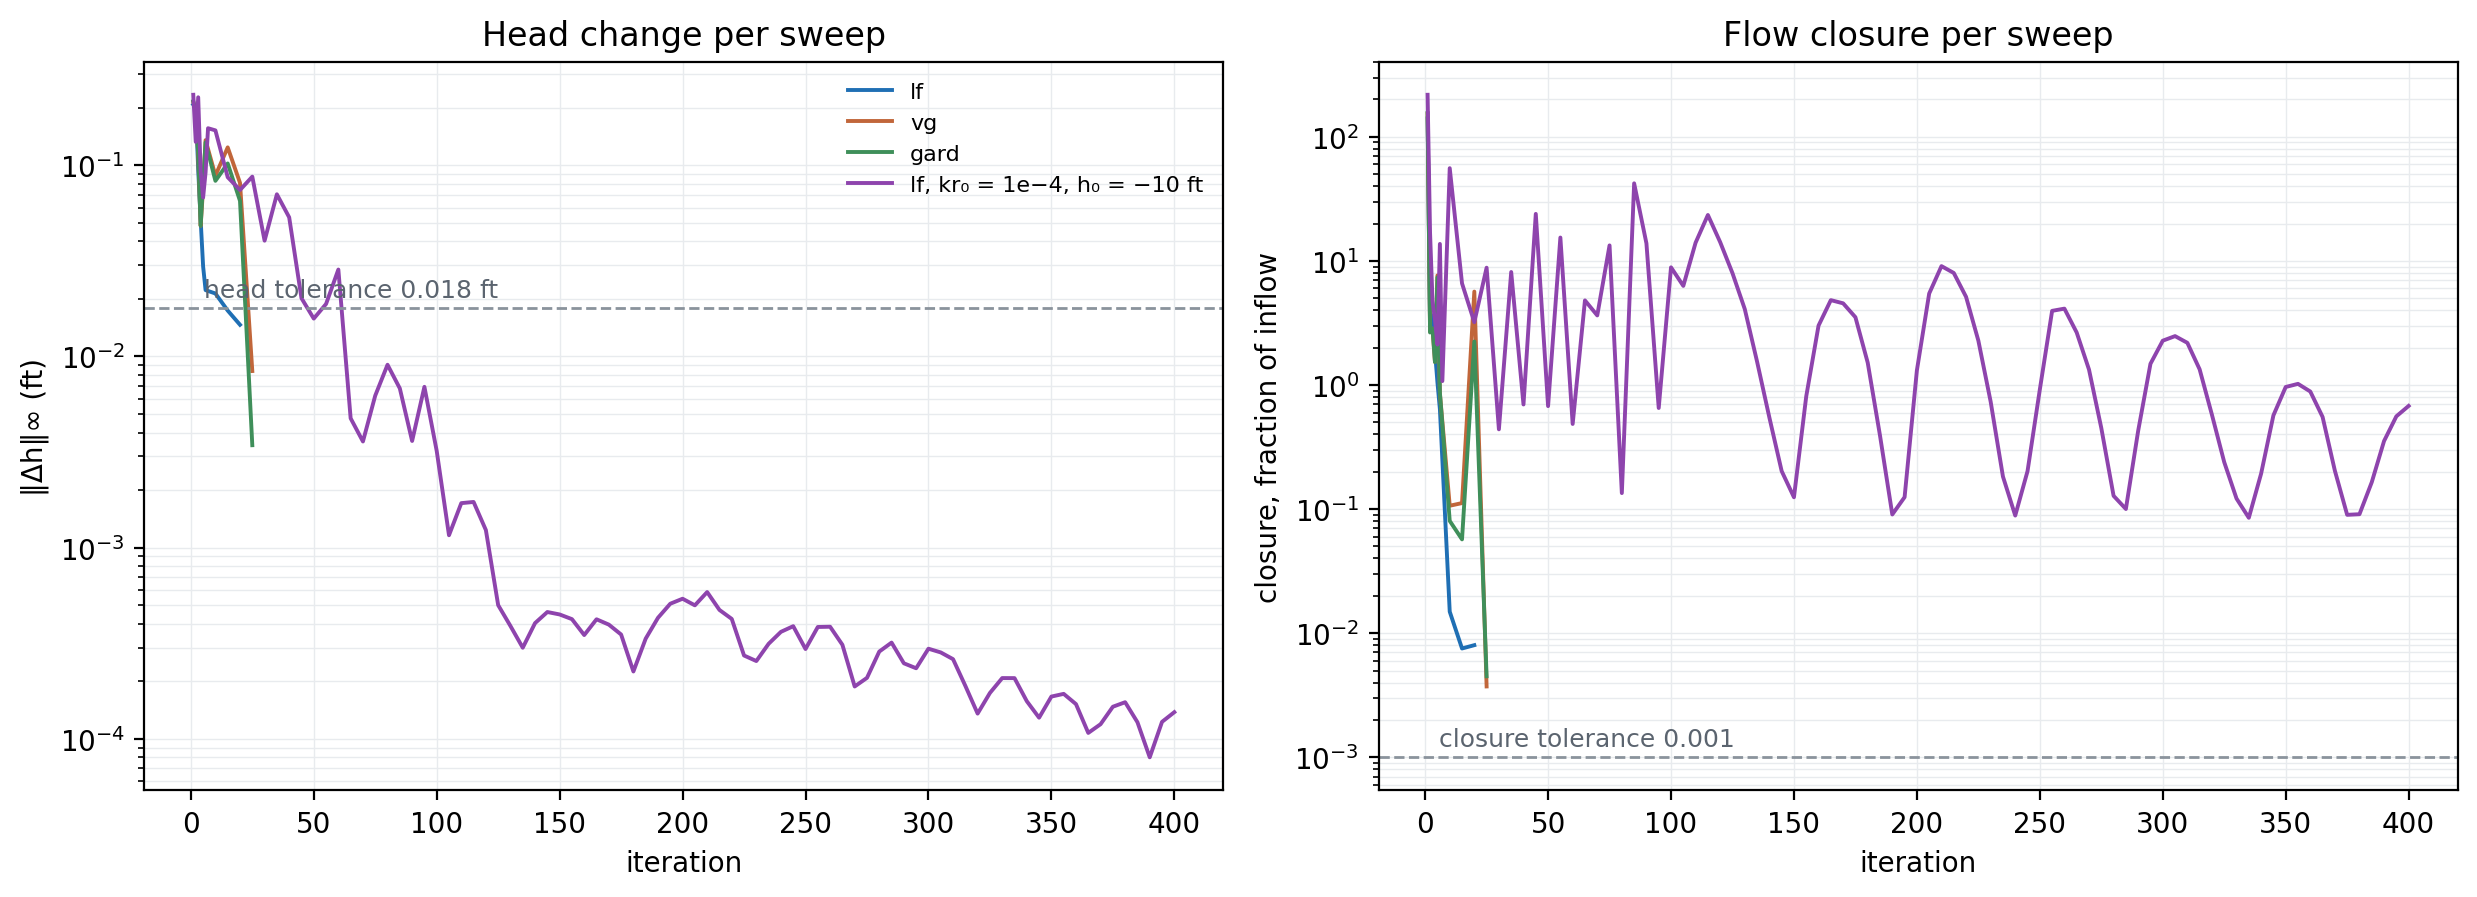
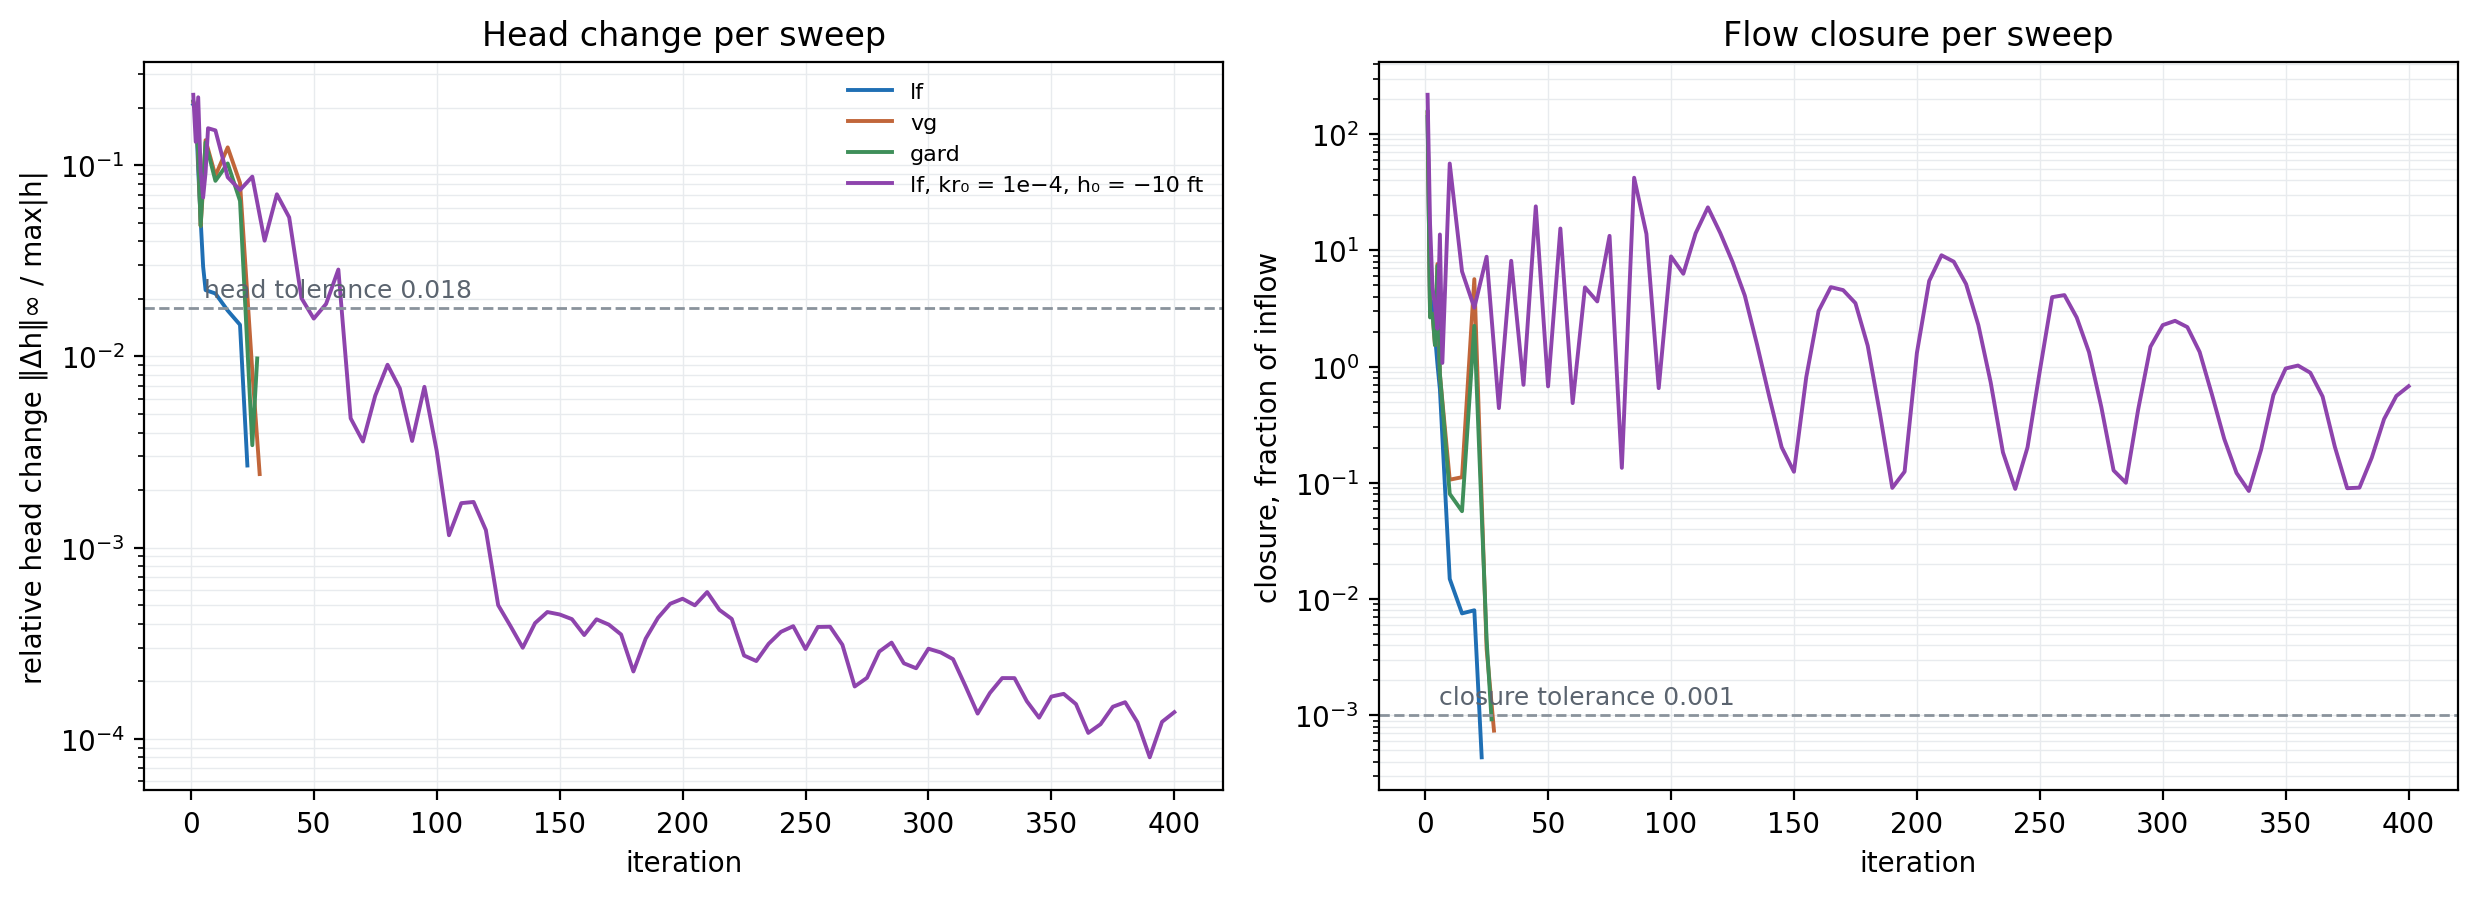
docs(tutorials): SEEP-2's convergence figure carries the sweep each run stopped on
The solver prints a sweep only on the first three, every fifth after that, and
whenever the exit-face set changes, so a run converging on sweep 23 never prints
its last one and the scraped history stopped in mid-descent, above the thresholds
the run had actually crossed. The history now appends the terminal
`Converged in N iterations` line, which carries the same residual and closure.

The head test is on the RELATIVE change — max nodal change over the largest head
— so the panel's axis and its threshold annotation drop the feet they never had.

The relaxation factor now comes off the ladder at the sweep a run finished on
rather than off the log, which read 1.00 for a run that spent three sweeps at
0.5. The exit-face trajectory, the band the hard run's closure orbits in, and how
far each section integral misses the reported discharge are measured rather than
eyeballed off a figure.

Claude-Session: https://claude.ai/code/session_01XjjT2aBxw8gY7EFdpoUcpj

diff --git a/tools/make_tutorial_figures.py b/tools/make_tutorial_figures.py
@@ -2260,12 +2260,56 @@ def _seep02_log_stats(log):
 
 
 def _seep02_history(log):
-    """``(iteration, residual, closure)`` for every sweep the log printed."""
+    """``(iteration, residual, closure)`` for every sweep the log reported.
+
+    The per-sweep line is printed only on the first three sweeps, every fifth
+    sweep after that, and whenever the exit-face set changes, so a run that
+    converges on a sweep matching none of those never prints its last one. The
+    terminal ``Converged in N iterations`` line carries the same two numbers, so it
+    is appended here: without it a converging series stops in mid-descent, above
+    the thresholds it actually crossed.
+    """
     import re
 
     rows = re.findall(r"Iteration (\d+): residual = ([0-9.e+-]+), "
                       r"closure = ([0-9.e+-]+)", log)
-    return [(int(i), float(r), float(c)) for i, r, c in rows]
+    out = [(int(i), float(r), float(c)) for i, r, c in rows]
+    done = re.search(r"Converged in (\d+) iterations \(residual = ([0-9.e+-]+), "
+                     r"closure = ([0-9.e+-]+)", log)
+    if done is not None:
+        last = (int(done.group(1)), float(done.group(2)), float(done.group(3)))
+        if not out or out[-1][0] != last[0]:
+            out.append(last)
+    return out
+
+
+def _seep02_active_history(log):
+    """``(iteration, active nodes)`` for every sweep the log reported.
+
+    The exit-face line prints on any sweep the set changed, so this carries every
+    change even though it does not carry every sweep.
+    """
+    import re
+
+    rows = re.findall(r"Iteration (\d+): .*? (\d+)/\d+ exit face active", log)
+    return [(int(i), int(n)) for i, n in rows]
+
+
+#: The solver's relaxation ladder (xslope/seep.py): the full step is taken through
+#: sweep 20, and the factor drops at each of these sweep counts thereafter. Reading
+#: the factor off the ladder rather than off the log is what makes it right on a run
+#: whose last sweeps were not printed.
+SEEP02_RELAX_LADDER = ((20, 0.5), (40, 0.2), (60, 0.1), (80, 0.05),
+                       (100, 0.02), (120, 0.01))
+
+
+def _seep02_relax_at(iteration):
+    """The relaxation factor the ladder gives on sweep ``iteration``."""
+    relax = 1.0
+    for after, value in SEEP02_RELAX_LADDER:
+        if iteration > after:
+            relax = value
+    return relax
 
 
 def _seep02_materials(model, per_mat):
@@ -2545,7 +2589,7 @@ def _seep02_convergence_figure(histories, tol_scaled, closure_tol=1e-3):
         ax2.semilogy([i for i, _, _ in rows], [c for _, _, c in rows],
                      color=color, lw=1.4, label=label)
     ax1.axhline(tol_scaled, color="#8a939c", lw=1.0, ls="--")
-    ax1.annotate("head tolerance %.3g ft" % tol_scaled, (1, tol_scaled),
+    ax1.annotate("head tolerance %.3g" % tol_scaled, (1, tol_scaled),
                  xytext=(4, 4), textcoords="offset points", color="#5b646f",
                  fontsize=9)
     ax2.axhline(closure_tol, color="#8a939c", lw=1.0, ls="--")
@@ -2553,7 +2597,9 @@ def _seep02_convergence_figure(histories, tol_scaled, closure_tol=1e-3):
                  xytext=(4, 4), textcoords="offset points", color="#5b646f",
                  fontsize=9)
     ax1.set_title("Head change per sweep")
-    ax1.set_ylabel("‖Δh‖∞ (ft)")
+    # The solver's head test is on the RELATIVE change — max nodal change over the
+    # largest head in the field — so the axis and the threshold are dimensionless.
+    ax1.set_ylabel("relative head change ‖Δh‖∞ / max|h|")
     ax2.set_title("Flow closure per sweep")
     ax2.set_ylabel("closure, fraction of inflow")
     for ax in (ax1, ax2):
@@ -2653,8 +2699,13 @@ def seep02_plots():
           % (SEEP02_CENTERLINE, total, SEEP02_KEY_TOE, below, 100.0 * below / total))
     for x in (400.0, 450.0, SEEP02_DOWNSTREAM):
         tot, above, share, y_ph = _seep02_unsaturated_flow(mesh, solution, x)
-        print("   unsaturated x %g: q %.4f · above the phreatic surface at %.2f ft "
-              "%.4f (%.1f%%)" % (x, tot, y_ph, above, share))
+        # How far the section integral misses the reported total discharge is the
+        # resolution of the share beside it: a share read off an integral that is
+        # itself several percent out cannot be quoted to the tenth.
+        print("   unsaturated x %g: q %.4f (%+.1f%% of the reported total) · above "
+              "the phreatic surface at %.2f ft %.4f (%.1f%%)"
+              % (x, tot, 100.0 * (tot - solution["flowrate"]) / solution["flowrate"],
+                 y_ph, above, share))
 
     # The head the core drops, read either side of it at three elevations.
     ihead = _seep02_interp(mesh, head)
@@ -2685,7 +2736,8 @@ def seep02_plots():
     for i, mat in enumerate(sd["materials"], 1):
         k = math.sqrt(float(mat["k1"]) * float(mat["k2"]))
         channels = solution["flowrate"] * drops / (k * hdrop)
-        print("   base_mat %d %-11s k %-8g Nf = q·Nd/(k·Δh) = %8.2f · %d φ contours"
+        print("   base_mat %d %-11s k %-8g Nf = q·Nd/(k·Δh) = %8.2f · %d φ contour "
+              "levels requested"
               % (i, mat["name"], k, channels, max(round(channels) + 1, 2)))
         panels.append(capture("seep02_base_mat_%d.png" % i, plot_seep_solution,
                               seep_data, solution, figsize=figsize,
@@ -2742,11 +2794,19 @@ def seep02_plots():
         histories.append((label, _seep02_history(mlog)))
         if label != "lf":
             refs.append((label, sol["flowrate"]))
-        print("   %-5s q %.4f · %3d iterations · relax down to %.2f · %d/%d exit "
-              "face active · unsaturated share at x %g %.1f%% · phreatic there "
-              "%.2f ft" % (label, sol["flowrate"], st["iterations"],
-                           st["relax_min"], st["active"][0], st["active"][1],
-                           SEEP02_DOWNSTREAM, share, y_ph))
+        # The relaxation factor comes off the LADDER at the sweep the run finished
+        # on, not off the log: the log prints a sweep only every fifth one after the
+        # sixth, so a run finishing on sweep 23 never prints sweeps 21-23 and the
+        # scraped minimum reads 1.00 for a run that spent three sweeps at 0.5.
+        print("   %-5s q %.4f · %3d iterations · relax at the last sweep %.2f "
+              "(scraped from the log: %.2f) · %d sweeps past the full step · "
+              "%d/%d exit face active · unsaturated share at x %g %.1f%% · "
+              "phreatic there %.2f ft"
+              % (label, sol["flowrate"], st["iterations"],
+                 _seep02_relax_at(st["iterations"]), st["relax_min"],
+                 max(0, st["iterations"] - SEEP02_RELAX_LADDER[0][0]),
+                 st["active"][0], st["active"][1],
+                 SEEP02_DOWNSTREAM, share, y_ph))
     for i, (a, ys_a) in enumerate(phreatics):
         for b, ys_b in phreatics[i + 1:]:
             print("   %-4s vs %-4s phreatic surface differs by at most %.2f ft "
@@ -2767,8 +2827,10 @@ def seep02_plots():
         _, sol, slog = _seep02_solve(model, mesh)
         st = _seep02_log_stats(slog)
         sweep.append((kr0, sol["flowrate"]))
-        print("   kr0 %-8g q %.4f · %s iterations · relax down to %.2f · %s"
-              % (kr0, sol["flowrate"], st["iterations"], st["relax_min"],
+        print("   kr0 %-8g q %.4f · %s iterations · relax at the last sweep %.2f "
+              "(scraped from the log: %.2f) · %s"
+              % (kr0, sol["flowrate"], st["iterations"],
+                 _seep02_relax_at(st["iterations"]), st["relax_min"],
                  "converged" if st["converged"] else "DID NOT CONVERGE"))
     capture("seep02_kr0_sweep.png", _seep02_kr0_figure, sweep, refs)
 
@@ -2787,9 +2849,10 @@ def seep02_plots():
     for tol in SEEP02_TOLS:
         _, sol, tlog = _seep02_solve(sd, mesh, tol=tol)
         st = _seep02_log_stats(tlog)
-        print("   tol %-8g scaled to %.4g ft · q %.6f · %s iterations · relax down "
-              "to %.2f" % (tol, st["tol_scaled"], sol["flowrate"],
-                           st["iterations"], st["relax_min"]))
+        print("   tol %-8g scaled to %.4g · q %.6f · %s iterations · relax at the "
+              "last sweep %.2f" % (tol, st["tol_scaled"], sol["flowrate"],
+                                   st["iterations"],
+                                   _seep02_relax_at(st["iterations"])))
 
     print("   -- the run that does not converge inside the default ceiling")
     hard = _seep02_materials(sd, [dict(unsat="lf", **SEEP02_HARD)] * 3)
@@ -2805,8 +2868,21 @@ def seep02_plots():
     # REPORTED sweep inside the head tolerance rather than the first one — which is
     # the right granularity for a page that quotes the log.
     inside = [i for i, r, _ in _seep02_history(hlog) if r < stats["tol_scaled"]]
-    print("   head change inside the %.4g ft tolerance by reported sweep %s, and "
+    print("   head change inside the %.4g tolerance by reported sweep %s, and "
           "stayed there" % (stats["tol_scaled"], inside[0] if inside else "never"))
+    # The band the flow closure orbits in, rather than an eyeballed pair of round
+    # numbers off the figure, and the sweep the exit-face set stopped moving on.
+    closures = [c for _, _, c in _seep02_history(hlog)]
+    print("   closure     oscillates between %.4g and %.4g over the %d reported "
+          "sweeps" % (min(closures), max(closures), len(closures)))
+    for label, alog in (("base run", log), ("hard run", hlog)):
+        act = _seep02_active_history(alog)
+        settled = act[-1][1]
+        first = next(i for i, (_it, n) in enumerate(act)
+                     if all(m == settled for _jt, m in act[i:]))
+        print("   %s   exit face %s ... settled to %d from sweep %d"
+              % (label, " ".join("%d" % n for _it, n in act[:6]), settled,
+                 act[first][0]))
     for line in tail:
         print("     %s" % line)
     histories.append(("lf, kr₀ = 1e−4, h₀ = −10 ft", _seep02_history(hlog)))
